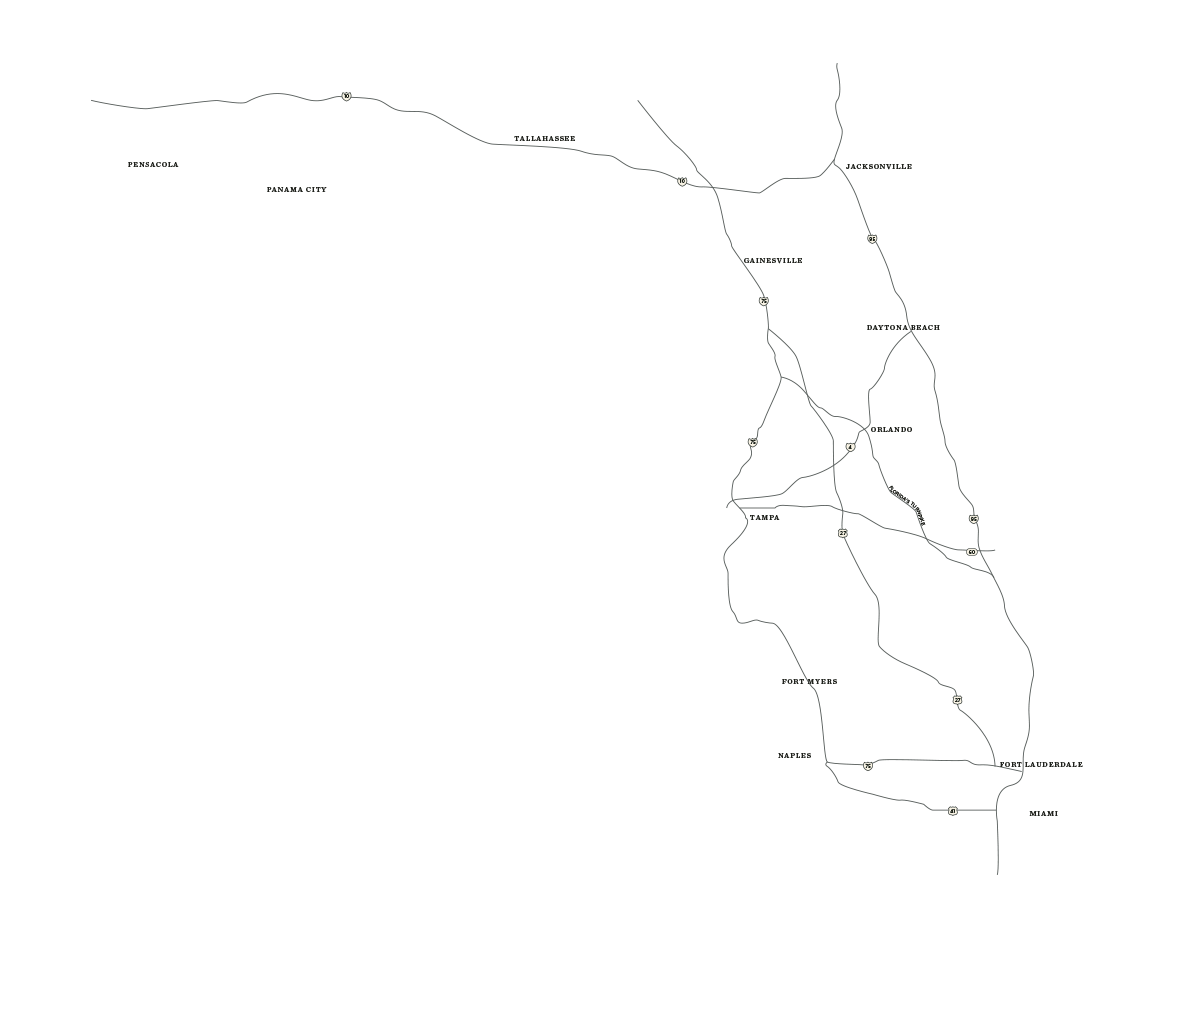
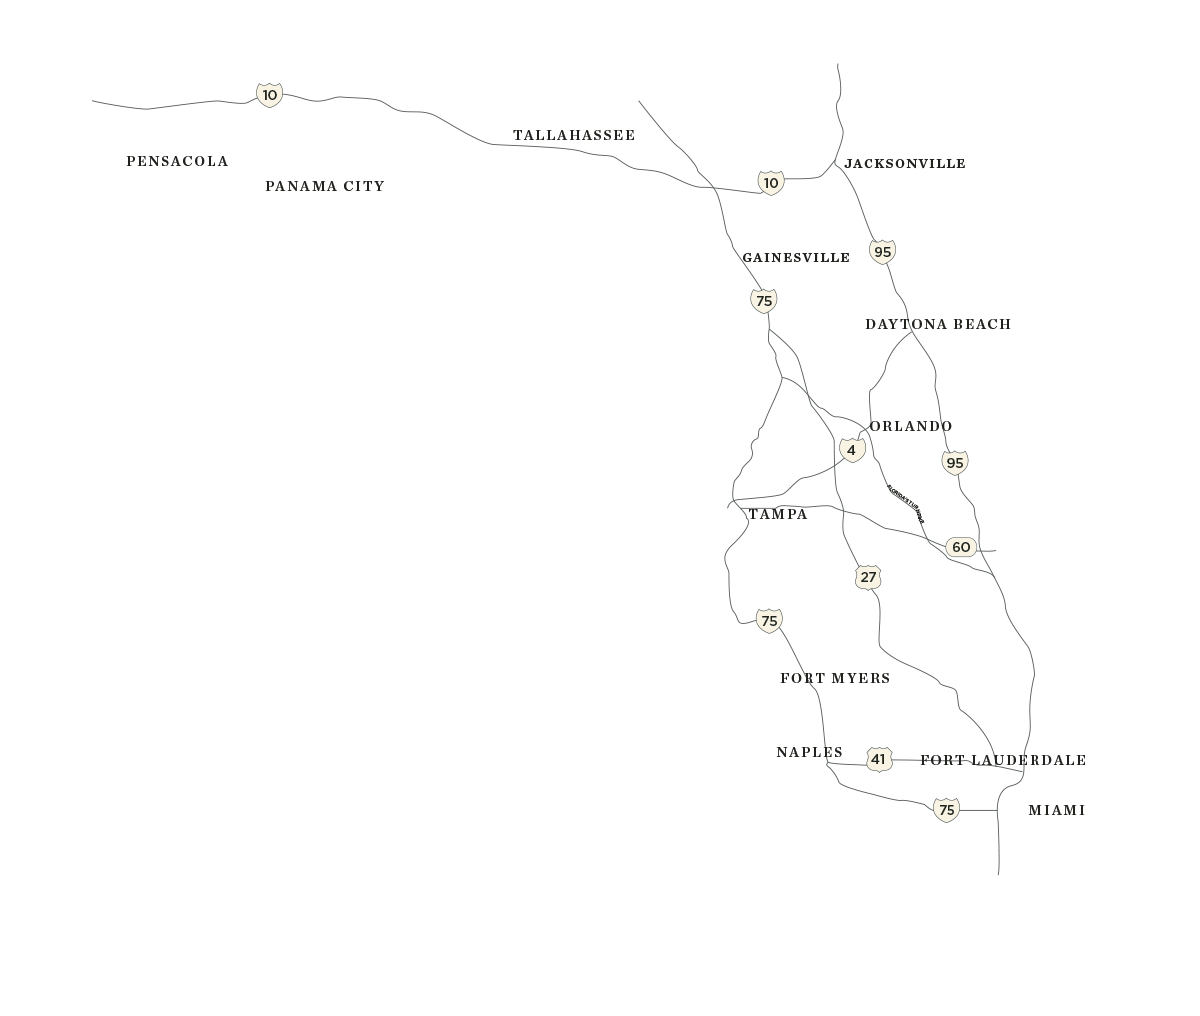
Updated mobile map and roads and cities map

diff --git a/dev/2016/spring/state-of-nature/state-of-nature.html b/dev/2016/spring/state-of-nature/state-of-nature.html
@@ -148,21 +148,21 @@ Overall, despite some setbacks and challenges, scientists say balance is achieva
         </div>
         <div class="row inview" data-callback="startNumberAnime">
             <div class="col-sm-4 col-md-4 state-stats">
-                <div class="number">34.6</div> <div class="stat">Million Acres <a href="#footnote1">&dagger;</a></div>
-                <div class="number">20</div> <div class="stat">Million People <a href="#footnote1">&dagger;</a></div>
+                <div class="number state-stats-number">34.6</div> <div class="stat">Million Acres <a href="#footnote1">&dagger;</a></div>
+                <div class="number state-stats-number">20</div> <div class="stat">Million People <a href="#footnote1">&dagger;</a></div>
             </div>
             <div class="col-sm-4 col-md-4 state-stats">
-                <div class="number">30,000+</div> <div class="stat">Animal Species</div>
-                <div class="number">2,800+</div> <div class="stat">Native Plant Species</div>
+                <div class="number state-stats-number">30,000+</div> <div class="stat">Animal Species</div>
+                <div class="number state-stats-number">2,800+</div> <div class="stat">Native Plant Species</div>
             </div>
             <div class="col-sm-4 col-md-4 state-stats">
-                <div class="number">45</div> <div class="stat">Habitats</div>
-                <div class="number">1</div> <div class="stat">State</div>
+                <div class="number state-stats-number">45</div> <div class="stat">Habitats</div>
+                <div class="number state-stats-number">1</div> <div class="stat">State</div>
             </div>
         </div>
         <div class="row visible-xs">
             <div class="col-xs-12 col-md-12">
-                <img src="/wp-content/themes/Pegasus-Theme/dev/2016/spring/state-of-nature/img/map.png" alt="" width="100%" class="map-image">
+                <img src="/wp-content/themes/Pegasus-Theme/dev/2016/spring/state-of-nature/img/map-mobile.png" alt="" width="100%" class="map-image">
             </div>
         </div>
         <div class="row hidden-xs">

diff --git a/dev/2016/spring/state-of-nature/state-of-nature.js b/dev/2016/spring/state-of-nature/state-of-nature.js
@@ -34,31 +34,31 @@
     }
 
     // Animates increment of a number (no decimals). Handles commas.
-    function animateNumber(e) {
-        var $num = e,
-            numText = $num.text(),
+    function animateNumber($num) {
+        var numText = $num.text(),
             numTextParsed = parseInt($num.text().replace(/\D/g, ''), 10);
 
-        e.css("visibility","visible");
-
-        $num.css('width', $num.width()); // force fixed width to reduce flicker
+        $num.css({
+            "visibility": "visible",
+            "width": $num.width() // force fixed width to reduce flicker
+        });
 
         $({number: 0}).animate({number: numTextParsed}, {
-        duration: 1500,
-        easing: 'swing',
-        step: function() {
-            $num.text(commaSeparateNumber(Math.ceil(this.number)));
-        },
-        done: function() {
-            $num
-            .text(numText) // sometimes the animation doesn't animate the last incremention for whatever reason, so force it
-            .css('width', ''); // removed forced width
-        }
+            duration: 1500,
+            easing: 'swing',
+            step: function() {
+                $num.text(commaSeparateNumber(Math.ceil(this.number)));
+            },
+            done: function() {
+                $num
+                .text(numText) // sometimes the animation doesn't animate the last incremention for whatever reason, so force it
+                .css('width', ''); // removed forced width
+            }
         });
     }
 
     function startNumberAnime() {
-        $('.state-stats').find('.number').each(function (index, element) {
+        $('.state-stats-number').each(function (index, element) {
             setTimeout(animateNumber, 500, $(element));
         });
     }
